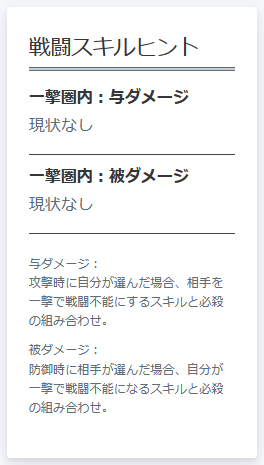
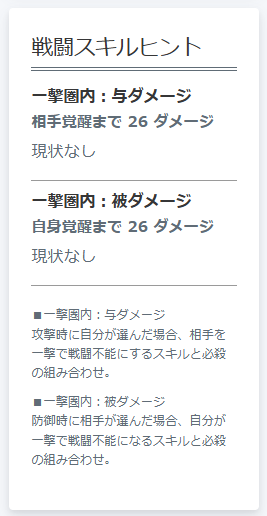
ver.3.1.5
・戦闘スキルヒントに覚醒までの残りHP表示を追加

Changed region(s): [[0.0909, 0.0602, 0.9091, 0.4516], [0.0909, 0.5419, 0.8485, 0.9032], [0.1212, 0.4817, 0.3636, 0.5118]]

diff --git a/webroot/css/base.css b/webroot/css/base.css
@@ -99,6 +99,11 @@ h4.battle-danger-title {
 h6.battle-danger-title {
     font-weight: bold;
 }
+.battle-danger-kakusei-title {
+    font-weight: bold;
+    font-size: 1.5rem;
+    margin-top: 0.2rem;
+}
 ul.baulttleform-danger-skill-wrap {
     display: flex;
     justify-content: space-between;

diff --git a/src/Controller/BattleController.php b/src/Controller/BattleController.php
@@ -561,6 +561,8 @@ class BattleController extends AppController
         // 各スキル格納配列
         $attackDamages = [];
         $incomingDamages = [];
+        $myKakuseiDamage = '―';
+        $vsKakuseiDamage = '―';
 
         $battleId = $this->request->getQuery('battle_id');
         if (!$battleId) {
@@ -576,6 +578,8 @@ class BattleController extends AppController
             $this->set(compact('chatRoomId'));
             $this->set(compact('attackDamages'));
             $this->set(compact('incomingDamages'));
+            $this->set(compact('myKakuseiDamage'));
+            $this->set(compact('vsKakuseiDamage'));
             return $this->render();
         }
 
@@ -594,6 +598,8 @@ class BattleController extends AppController
             $this->set(compact('chatRoomId'));
             $this->set(compact('attackDamages'));
             $this->set(compact('incomingDamages'));
+            $this->set(compact('myKakuseiDamage'));
+            $this->set(compact('vsKakuseiDamage'));
             return $this->render();
         }
 
@@ -626,6 +632,7 @@ class BattleController extends AppController
         $mySp4 = (($myCharacter->sp - 4) >= 0) ? true : false;
         $myStr = (5 + $myCharacter->strength) + $myCharacter->permanent_strength + $myCharacter->temporary_strength;
         $myCombo = $myCharacter->combo;
+        $myKakuseiFlg = $myCharacter->is_limit;
 
         $vsHp = $vsCharacter->hp;
         $vsSp = $vsCharacter->sp;
@@ -634,6 +641,7 @@ class BattleController extends AppController
         $vsSp4 = (($vsCharacter->sp - 4) >= 0) ? true : false;
         $vsStr = (5 + $vsCharacter->strength) + $vsCharacter->permanent_strength + $vsCharacter->temporary_strength;
         $vsCombo = $vsCharacter->combo;
+        $vsKakuseiFlg = $vsCharacter->is_limit;
 
         // 一撃圏内攻撃スキル
         // 通常攻撃
@@ -801,6 +809,17 @@ class BattleController extends AppController
             $incomingDamages['明鏡vs覚悟（大）'] = $damage;
         }
 
+        // 覚醒まで残り
+        $myKakuseiDamage = ceil($myHp/2);
+        $vsKakuseiDamage = ceil($vsHp/2);
+        // 覚醒済みの場合は上書き
+        if ($myKakuseiFlg) {
+            $myKakuseiDamage = 0;
+        }
+        if ($vsKakuseiFlg) {
+            $vsKakuseiDamage = 0;
+        }
+
         // デバッグ用
         $debugStatus = [];
         array_push($debugStatus, [$myHp, $mySp], [$mySp2, $mySp3, $mySp4], [$myStr]);
@@ -811,6 +830,8 @@ class BattleController extends AppController
         $this->set(compact('chatRoomId'));
         $this->set(compact('attackDamages'));
         $this->set(compact('incomingDamages'));
+        $this->set(compact('myKakuseiDamage'));
+        $this->set(compact('vsKakuseiDamage'));
 
         return $this->render();
     }

diff --git a/templates/Battle/danger.php b/templates/Battle/danger.php
@@ -1,10 +1,16 @@
 <?php
+if (!$battleTurn || $battleTurn->battle_status == BT_ST_KETYAKU) {
+    // 戦闘終了の場合は値を表示しない
+    $myKakuseiDamage = '―';
+    $vsKakuseiDamage = '―';
+}
 
 ?>
 <fieldset>
     <h4 class="battle-danger-title"><?= __('戦闘スキルヒント') ?></h4>
     <div class="battleform-fieldset-container">
         <h6 class="battle-danger-title"><?= __('一撃圏内：与ダメージ') ?></h6>
+        <div class="battle-danger-kakusei-title">相手覚醒まで <?php echo h($vsKakuseiDamage) ?> ダメージ</div>
         <ul class="battleform-danger-container">
             <?php if (!$battleTurn || $battleTurn->battle_status == BT_ST_KETYAKU) { ?>
                 <li>―</li>
@@ -22,6 +28,7 @@
     </div>
     <div class="battleform-fieldset-container">
         <h6 class="battle-danger-title"><?= __('一撃圏内：被ダメージ') ?></h6>
+        <div class="battle-danger-kakusei-title">自身覚醒まで <?php echo h($myKakuseiDamage) ?> ダメージ</div>
         <ul class="battleform-danger-container">
             <?php if (!$battleTurn || $battleTurn->battle_status == BT_ST_KETYAKU) { ?>
                 <li>―</li>
@@ -39,10 +46,10 @@
     </div>
     <div class="battleform-fieldset-container">
         <div class="battle-danger-info">
-            与ダメージ：<br>攻撃時に自分が選んだ場合、相手を一撃で戦闘不能にするスキルと必殺の組み合わせ。<br>
+            ■一撃圏内：与ダメージ<br>攻撃時に自分が選んだ場合、相手を一撃で戦闘不能にするスキルと必殺の組み合わせ。<br>
         </div>
         <div class="battle-danger-info">
-            被ダメージ：<br>防御時に相手が選んだ場合、自分が一撃で戦闘不能になるスキルと必殺の組み合わせ。<br>
+            ■一撃圏内：被ダメージ<br>防御時に相手が選んだ場合、自分が一撃で戦闘不能になるスキルと必殺の組み合わせ。<br>
         </div>
     </div>
 </fieldset>

diff --git a/config/const.php b/config/const.php
@@ -1,6 +1,6 @@
 <?php
 // CSS更新用文字列
-define('CSS_UPDATE_DATE', '202503260001'); // リリース時用文字列。'202412120101' など数値のみ日付推奨。テスト時推奨： define('CSS_UPDATE_DATE', date("YmdHis"));
+define('CSS_UPDATE_DATE', '202503270001'); // リリース時用文字列。'202412120101' など数値のみ日付推奨。テスト時推奨： define('CSS_UPDATE_DATE', date("YmdHis"));
 define('SITE_DEBUG_MODE', 0); // テスト用。デバッグ用の関数や出力を表示。リリース時は0にすること。テスト時推奨： define('SITE_DEBUG_MODE', 1);
 // PHPメモリ上限
 define('PHP_MEMORY_LIMIT', '3072M');
